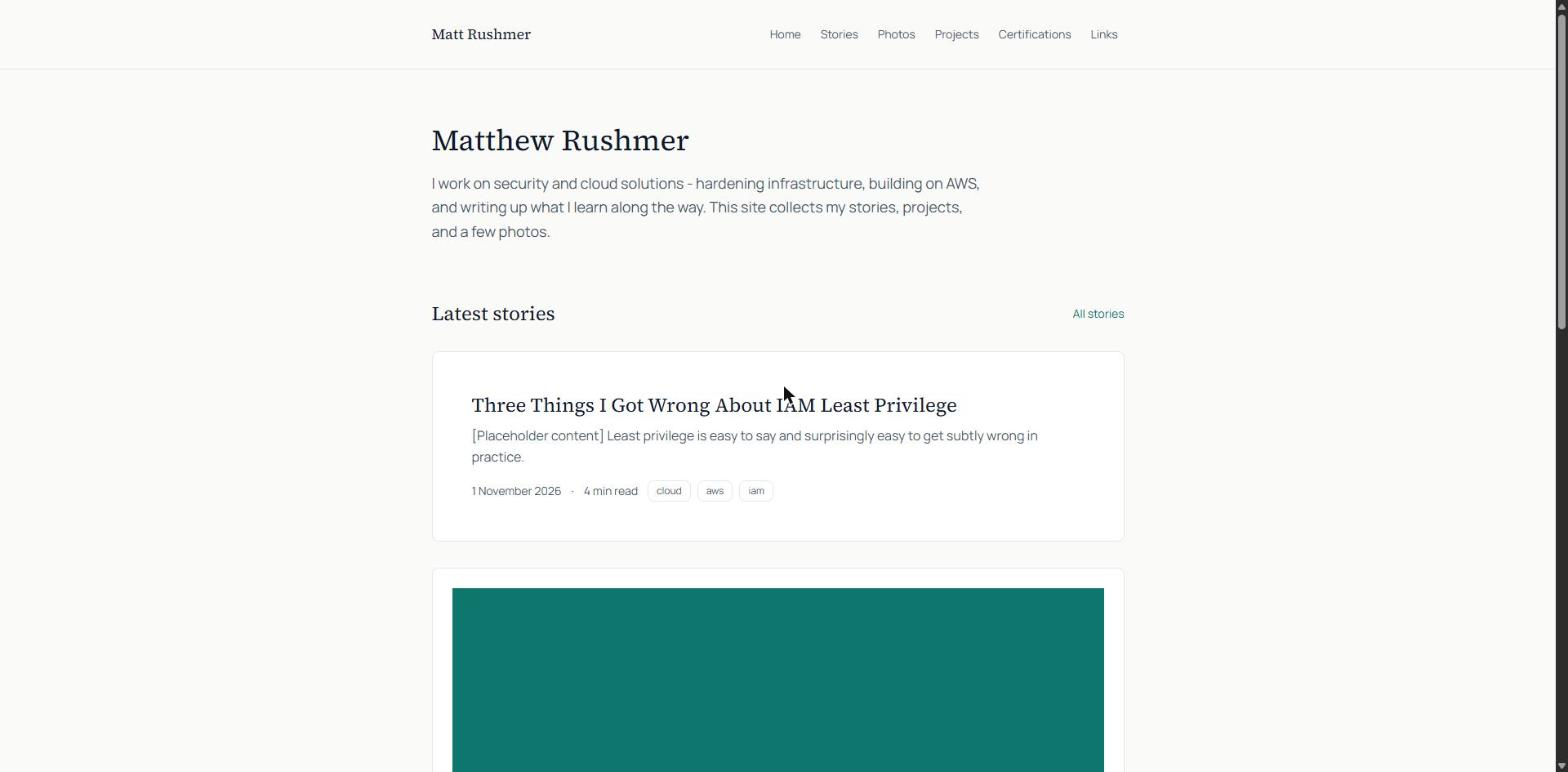
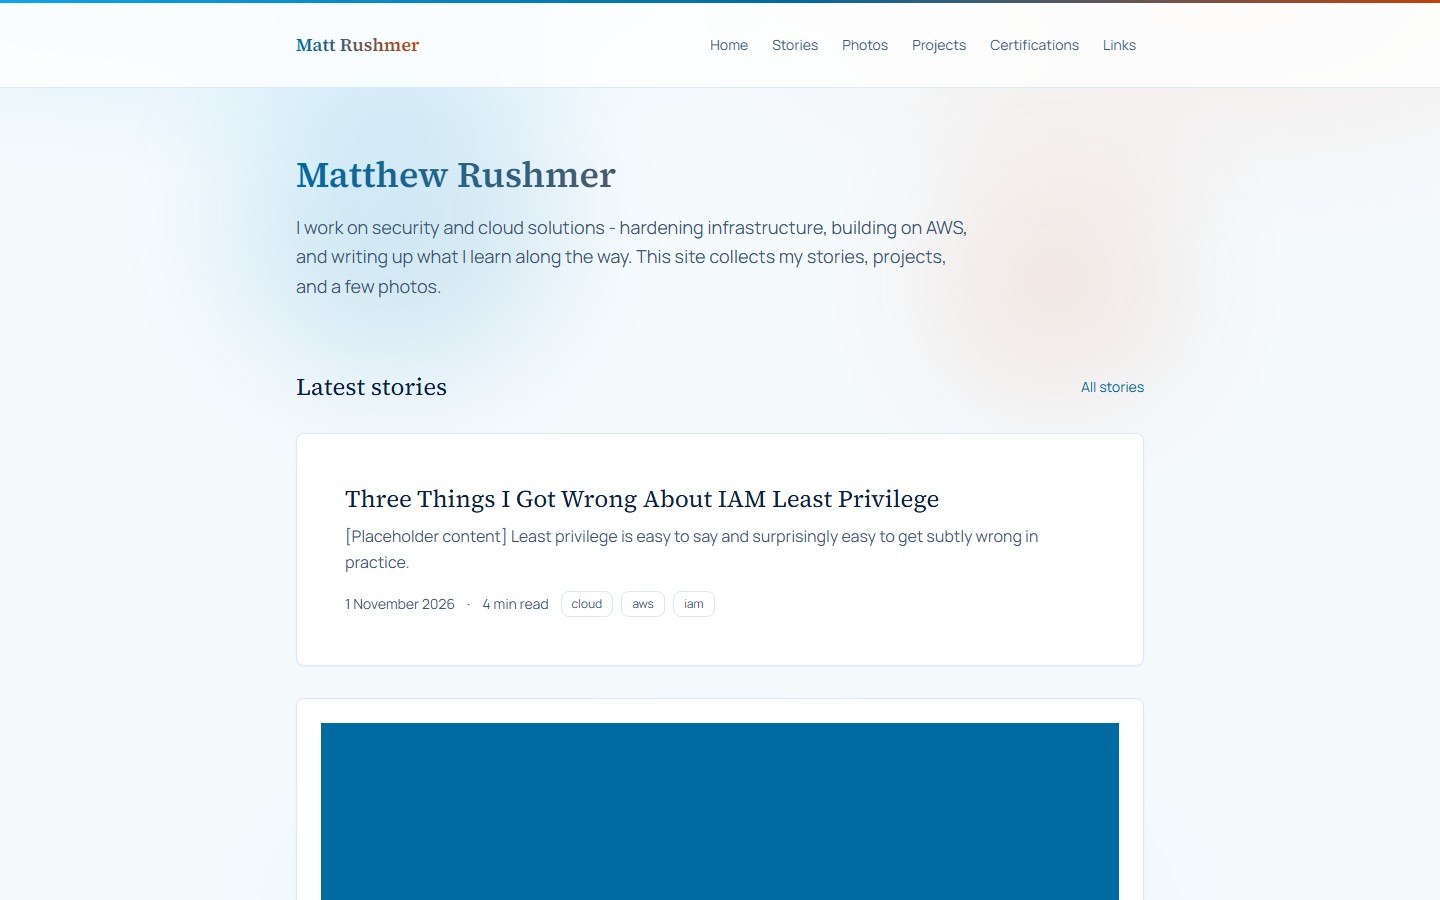
docs: update README design narrative and regenerate screenshots
Adds a Phase 5 section documenting the redesign and its contrast-
verification methodology, updates the "what this is" summary, and
regenerates all 7 public-page screenshots against the new palette.
Admin screenshots are left as-is pending a local admin re-login.

diff --git a/README.md b/README.md
@@ -53,7 +53,8 @@ projects, certifications, and links — all without touching code.
 ## What this is
 
 - **Home, Stories, Photos, Projects, Certifications, Links** — public pages,
-  server-rendered, mobile-first, one accent colour, no dark-mode toggle
+  server-rendered, mobile-first, a sky blue / cloudy white palette with
+  verified-accessible amber-red gradient accents, no dark-mode toggle
   (deliberately out of scope), WCAG AA contrast.
 - **`/admin`** — single-owner login (local: username + password; AWS: Cognito
   with required MFA), Markdown story editor with live preview, drag-and-drop
@@ -224,7 +225,9 @@ tested before the next started:
 7. Design tokens — a single light theme (plain hex values, not oklch,
    specifically so contrast ratios could be checked directly against
    WCAG's relative-luminance formula: accent `#0f766e` on white is 5.47:1,
-   well past the 4.5:1 AA floor).
+   well past the 4.5:1 AA floor). This teal palette was later replaced in
+   the [Phase 5 redesign](#phase-5--visual-redesign) — the plain-hex,
+   verify-don't-eyeball approach it established stuck around.
 8. The seed script — auto-generates a random admin password on first run
    (printed once, never a hardcoded default) and seeds realistic
    placeholder content, including **real photos run through the actual
@@ -356,6 +359,44 @@ architecture. Fixed by allowing `'unsafe-inline'` for scripts specifically
 (a deliberate, documented tradeoff) while keeping `frame-ancestors`,
 `object-src`, and `base-uri` strict. Verified live in a browser,
 post-fix, including the full admin login → dashboard flow.
+
+### Phase 5 — Visual redesign
+
+A deliberate follow-up pass replaced the original single-teal-accent palette
+with a sky blue / cloudy white theme with amber-red ("warm") gradient
+accents — a cleaner-yet-more-eye-catching direction than the original
+restrained design. All colour tokens live in one file
+(`app/globals.css`), so the whole visual system could be swapped without
+touching component logic; a `grep` across `src/` and `app/` confirmed no
+component had a hardcoded hex colour outside that file before the change
+was made.
+
+The main risk with any gradient-heavy palette is accessibility: a gradient
+that looks fine at a glance can still fail WCAG contrast partway along its
+stops, even when both endpoints individually pass. Every new token and
+gradient was checked against the sRGB relative-luminance formula with
+throwaway Node scripts before being wired into a component — not eyeballed:
+
+- Every text/background and button-fill/text colour pair clears the 4.5:1
+  AA floor (e.g. accent `#0369a1` on white is 5.93:1; accent-warm `#c2410c`
+  on white is 5.18:1).
+- Gradients are tiered by where they're allowed to appear, because the
+  brightest stops (e.g. sky-500, used for background glows) fail AA on
+  their own: a **decorative** tier for background blobs and the header's
+  gradient bar (never under text), a **button-safe** tier restricted to
+  accent → accent-hover for solid button fills, and a **text-safe** tier
+  for `.gradient-text` headings, each sampled at multiple points along the
+  gradient (not just the endpoints, since contrast is non-linear across a
+  CSS gradient) against the surface it actually renders on.
+
+Verified after the change: `tsc --noEmit` and `eslint` clean, all 52
+Vitest tests still passing, and a full visual pass across every public
+page (home, stories list/detail, photos gallery, projects, certifications,
+links) and the admin flow (dashboard, stories/certifications management)
+in a real browser. The three project-convention files
+(`AGENTS.md`/`CLAUDE.md`/`.cursor/rules/project.md`) and this README were
+updated to describe the new palette and its contrast rationale, and
+`docs/screenshots/*.jpg` were regenerated against the redesigned site.
 
 ### What's still open
 
